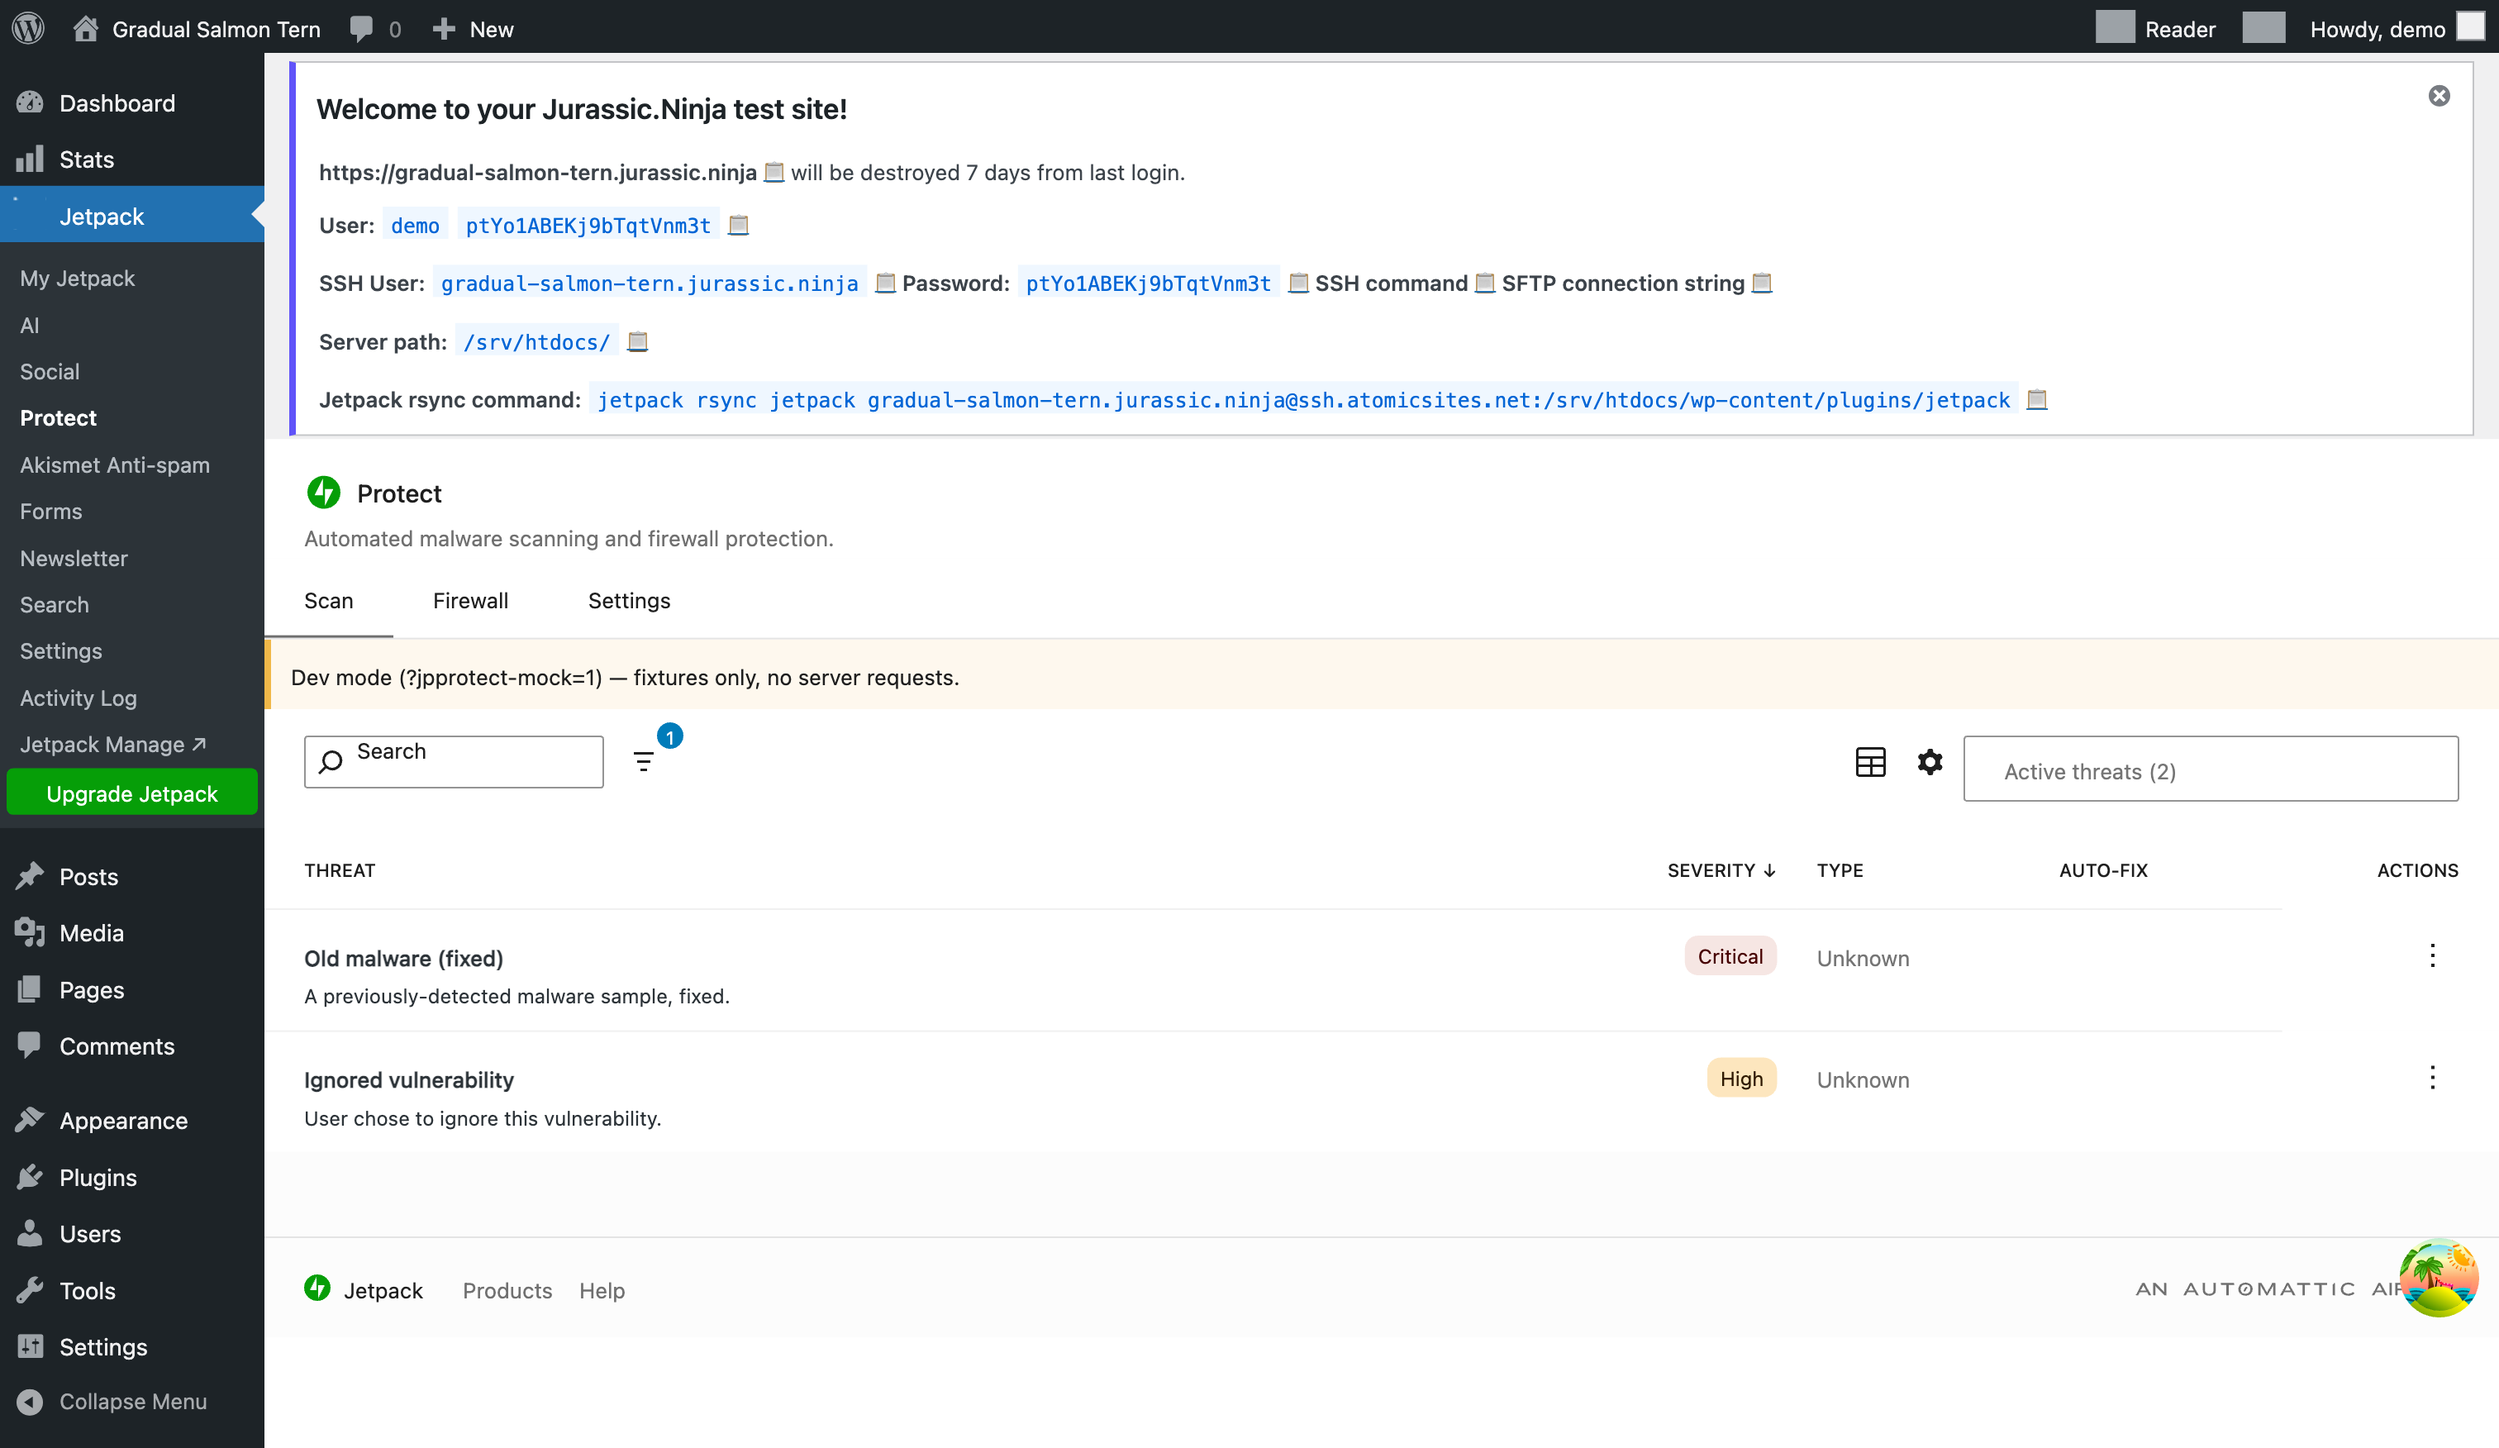
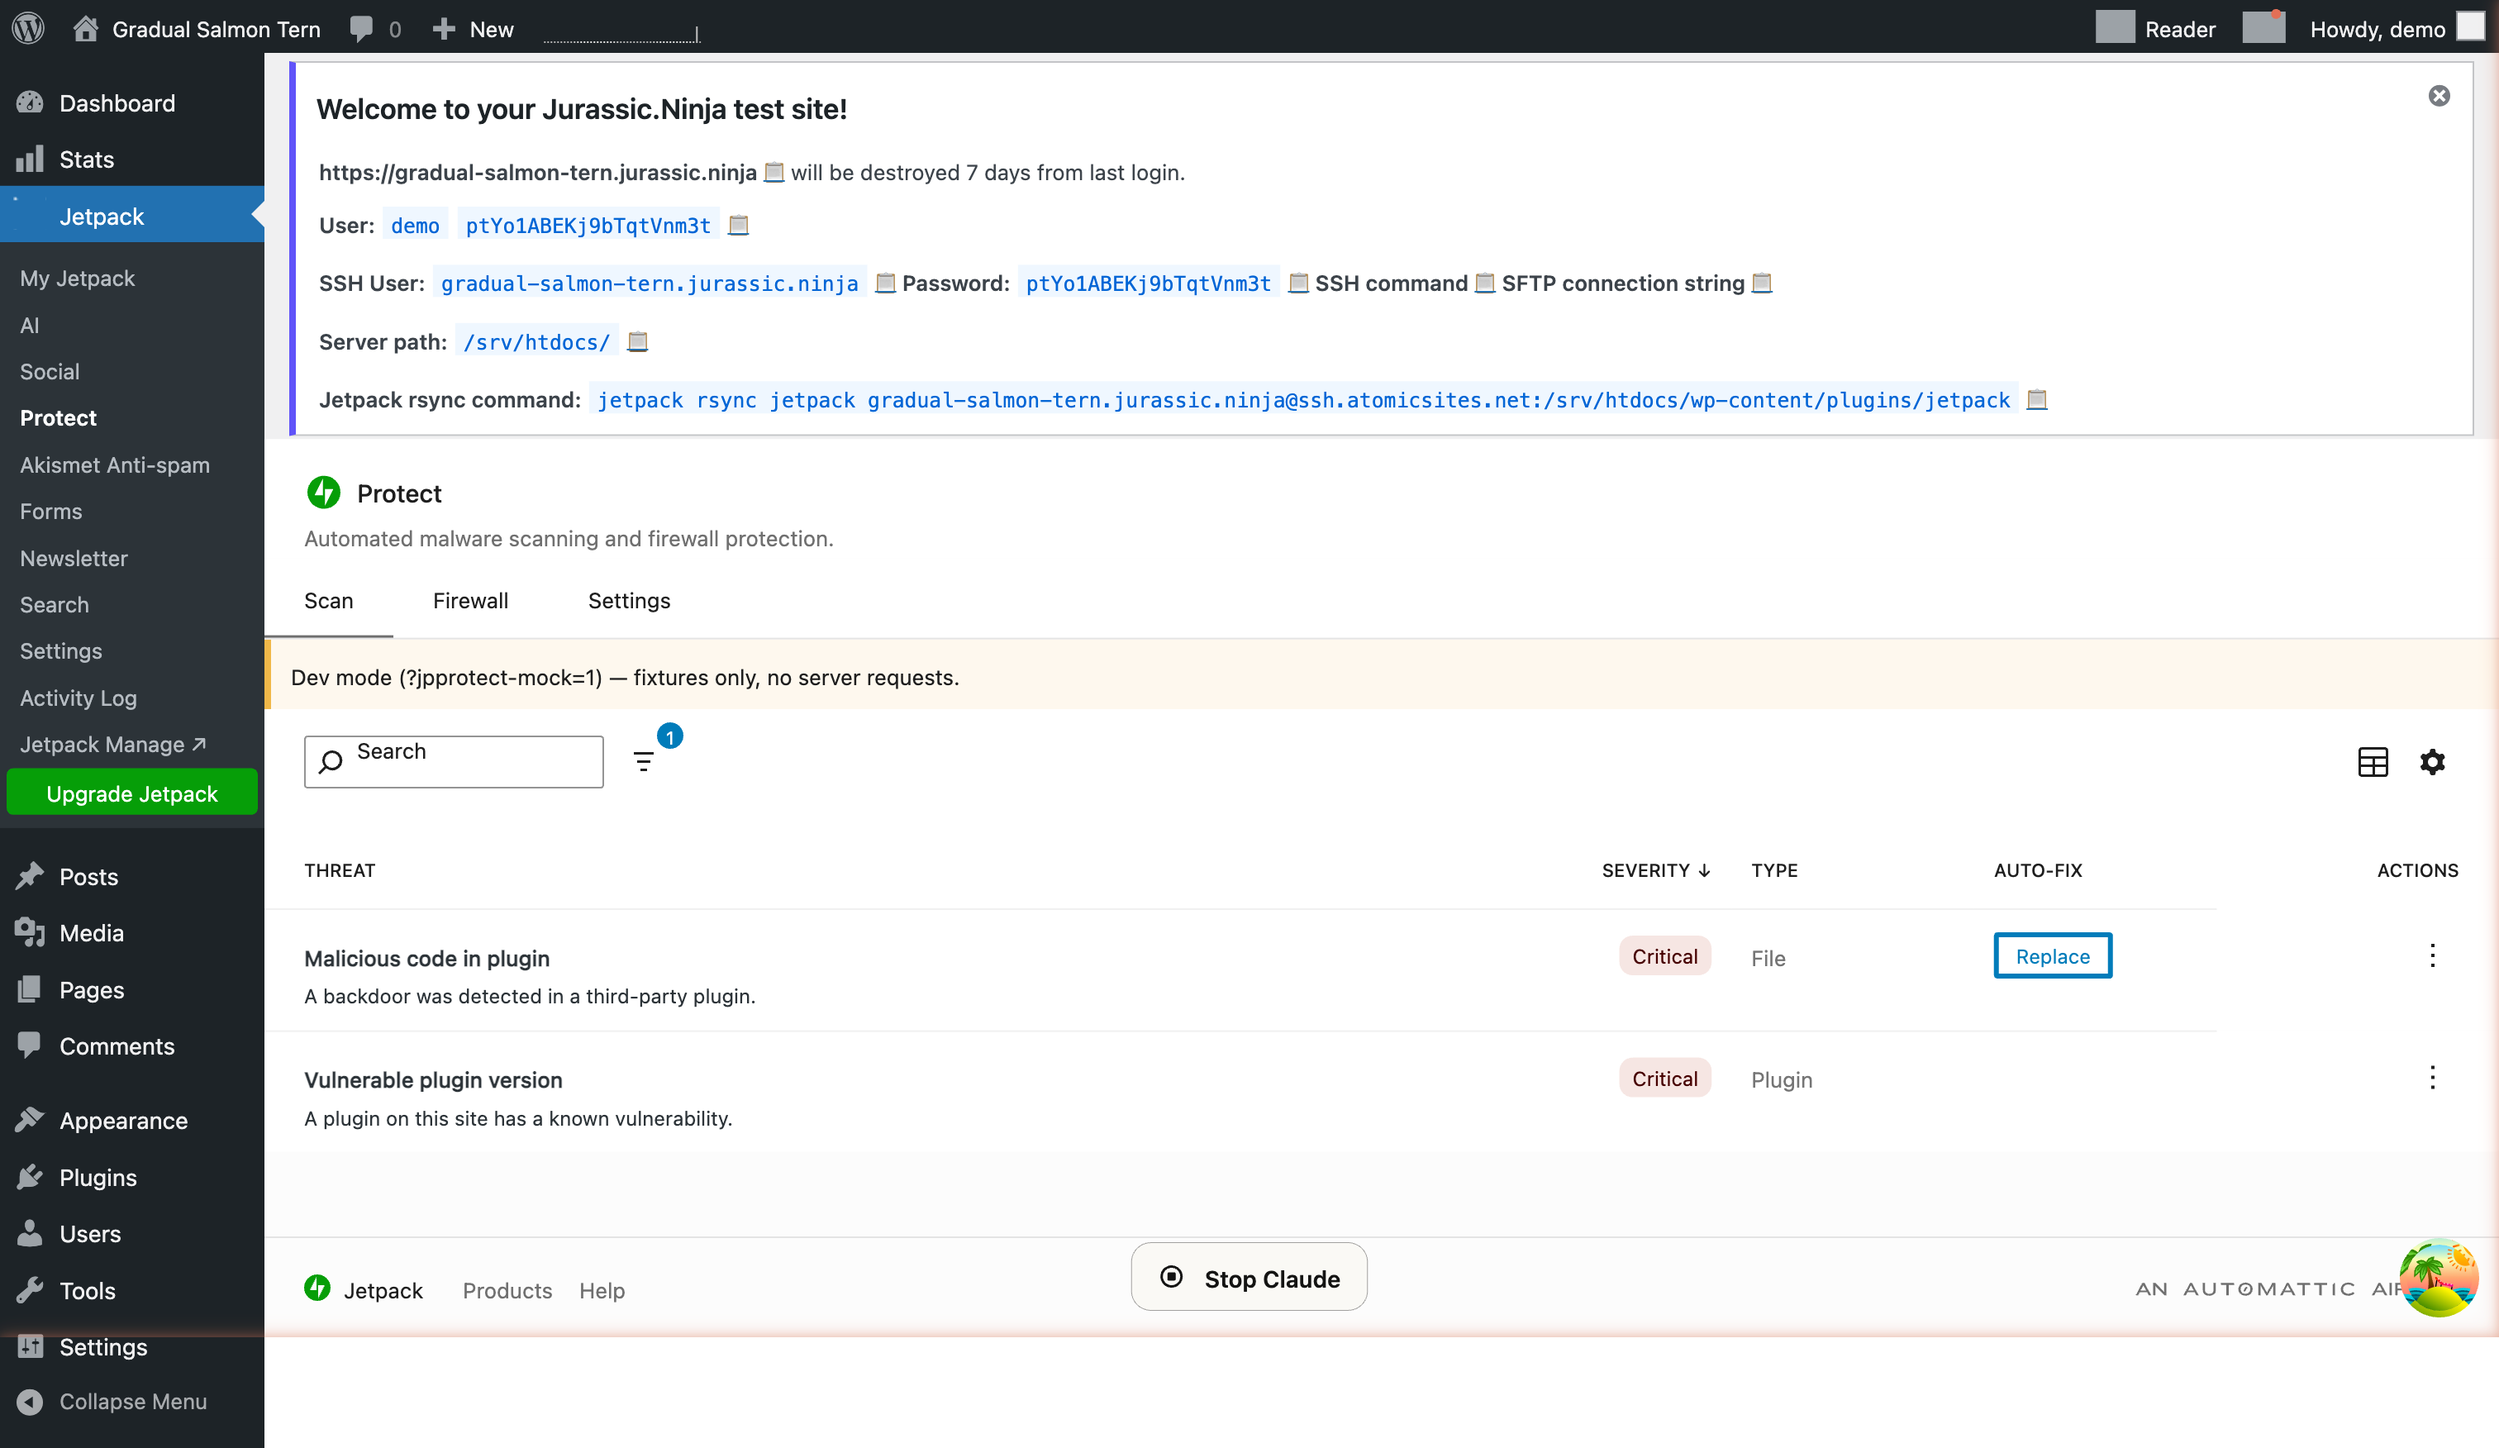
Protect: hide scan v2 in-table status toggle (use DataViews filter instead)

diff --git a/projects/plugins/protect/src/js/routes/scan/v2/screens/threats.tsx b/projects/plugins/protect/src/js/routes/scan/v2/screens/threats.tsx
@@ -58,7 +58,7 @@ export default function ThreatsScreen() {
 	return (
 		<ThreatsDataViews
 			data={ data }
-			showStatusFilter={ true }
+			showStatusFilter={ false }
 			filters={ [ { field: 'status', operator: 'isAny', value: [ 'current' ] } ] }
 			persistKey={ PERSIST_KEY }
 			isThreatEligibleForFix={ isFixable }
